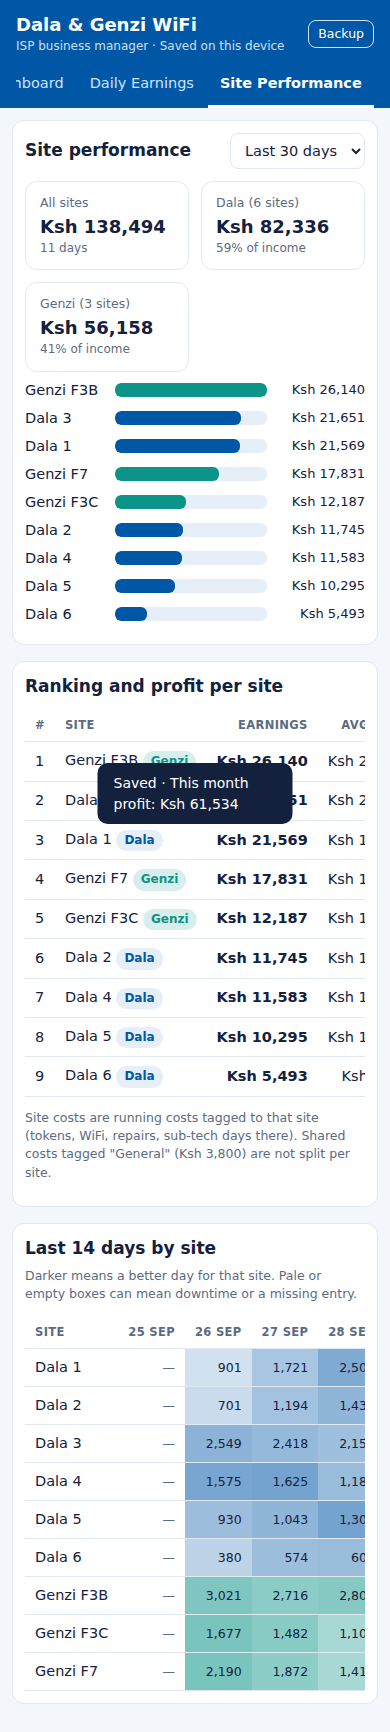
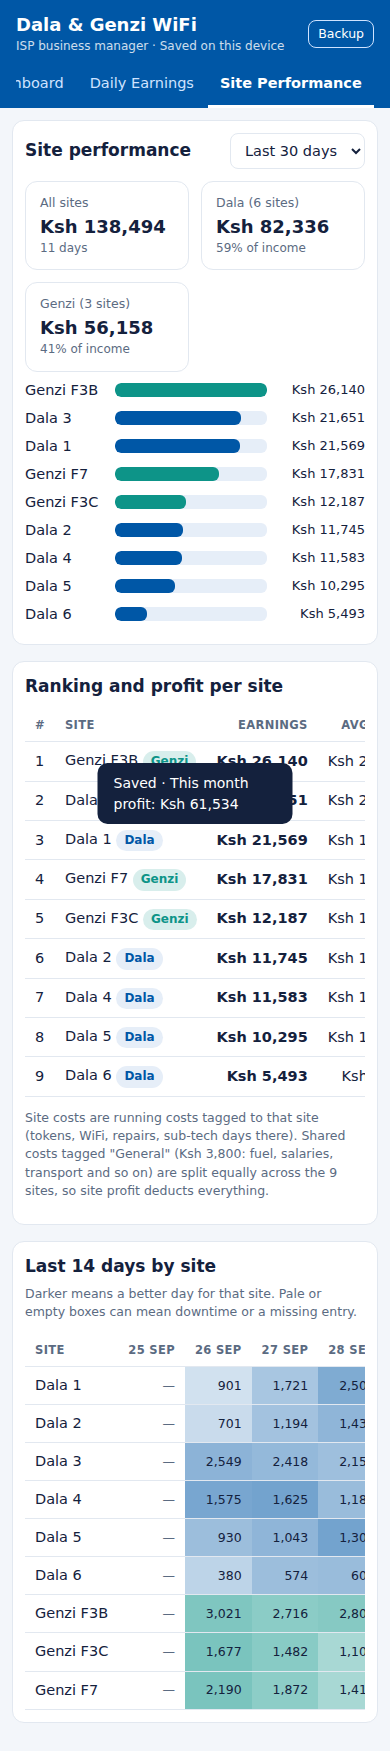
Deduct token and WiFi payments typed into site details; split shared costs per site
Claude-Session: https://claude.ai/code/session_01RXhoZSw358zXZpzYewJXMa

diff --git a/index.html b/index.html
@@ -277,6 +277,7 @@ function applyRemote(){
   written={};all.forEach(([p,d])=>written[p]=JSON.stringify(d.data()));
   S=migrate(fromDocs(lastSnaps.state,lastSnaps.earn));
   try{localStorage.setItem(KEY,JSON.stringify(S));}catch(e){}
+  if(reconcileBills())setTimeout(save,0);
   const a=document.activeElement;
   if(a&&a.closest&&a.closest('main')&&/INPUT|TEXTAREA|SELECT/.test(a.tagName)){needApply=true;return;}
   render();
@@ -677,7 +678,7 @@ P.perf=()=>{
   const [f,t]=rangeOf(UI.perfRange),e=earnIn(f,t),all=UI.perfRange==='all';
   const len=diffDays(f,t)+1,pe=all?null:earnIn(addDays(f,-len),addDays(f,-1));
   const c=costsIn(f,t),sc={};S.sites.forEach(s=>sc[s.id]=0);c.forEach(x=>{if(sc[x.site]!==undefined)sc[x.site]+=x.amount;});
-  const general=sum(c.filter(x=>!sc.hasOwnProperty(x.site)),x=>x.amount);
+  const general=sum(c.filter(x=>!sc.hasOwnProperty(x.site)),x=>x.amount),shareGen=general/(S.sites.length||1);
   const list=S.sites.map(s=>({s,b:e.bySite[s.id],p:pe?pe.bySite[s.id].total:null})).sort((a,b)=>b.b.total-a.b.total);
   const grp=g=>sum(S.sites.filter(s=>s.group===g),s=>e.bySite[s.id].total);
   // heat table: last 14 days
@@ -693,12 +694,12 @@ P.perf=()=>{
     ${hbars(list.map(x=>({label:x.s.name,v:x.b.total,cls:x.s.group==='Genzi'?'g':''})))}
   </div>
   <div class="card"><h2 style="margin-bottom:10px">Ranking and profit per site</h2>
-    <div class="tbl-wrap"><table><thead><tr><th>#</th><th>Site</th><th class="n">Earnings</th><th class="n">Avg/day</th><th class="n">Best day</th><th class="n">Worst day</th><th class="n">Share</th><th class="n">vs previous</th><th class="n">Site costs</th><th class="n">Site profit</th></tr></thead><tbody>
+    <div class="tbl-wrap"><table><thead><tr><th>#</th><th>Site</th><th class="n">Earnings</th><th class="n">Avg/day</th><th class="n">Best day</th><th class="n">Worst day</th><th class="n">Share</th><th class="n">vs previous</th><th class="n">Site costs</th><th class="n">Shared costs</th><th class="n">Site profit</th></tr></thead><tbody>
     ${list.map((x,i)=>`<tr><td>${i+1}</td><td>${esc(x.s.name)} ${groupBadge(x.s)}</td><td class="n"><b>${fmt(x.b.total)}</b></td><td class="n">${fmt(x.b.days?x.b.total/x.b.days:0)}</td>
       <td class="n">${x.b.best?fmt(x.b.best.v)+' <span class="muted small">'+fmtDs(x.b.best.d)+'</span>':'—'}</td><td class="n">${x.b.worst?fmt(x.b.worst.v)+' <span class="muted small">'+fmtDs(x.b.worst.d)+'</span>':'—'}</td>
-      <td class="n">${e.total?(x.b.total/e.total*100).toFixed(1)+'%':'—'}</td><td class="n">${x.p?trend(pct(x.b.total,x.p)):'—'}</td><td class="n">${fmt(sc[x.s.id])}</td><td class="n">${pnl(x.b.total-sc[x.s.id])}</td></tr>`).join('')}
+      <td class="n">${e.total?(x.b.total/e.total*100).toFixed(1)+'%':'—'}</td><td class="n">${x.p?trend(pct(x.b.total,x.p)):'—'}</td><td class="n">${fmt(sc[x.s.id])}</td><td class="n">${fmt(shareGen)}</td><td class="n">${pnl(x.b.total-sc[x.s.id]-shareGen)}</td></tr>`).join('')}
     </tbody></table></div>
-    <p class="small muted">Site costs are running costs tagged to that site (tokens, WiFi, repairs, sub-tech days there). Shared costs tagged "General" (${fmt(general)}) are not split per site.</p>
+    <p class="small muted">Site costs are running costs tagged to that site (tokens, WiFi, repairs, sub-tech days there). Shared costs tagged "General" (${fmt(general)}: fuel, salaries, transport and so on) are split equally across the ${S.sites.length} sites, so site profit deducts everything.</p>
   </div>
   <div class="card"><h2 style="margin-bottom:6px">Last 14 days by site</h2><p class="small muted" style="margin-top:0">Darker means a better day for that site. Pale or empty boxes can mean downtime or a missing entry.</p>
     <div class="tbl-wrap heat"><table><thead><tr><th>Site</th>${hd.map(d=>`<th class="n">${fmtDs(d)}</th>`).join('')}</tr></thead><tbody>
@@ -708,7 +709,7 @@ P.perf=()=>{
 const trend=p=>p===null||!isFinite(p)?'—':`<span class="${p<0?'neg':'pos'}">${p<0?'▼':'▲'} ${Math.abs(p).toFixed(0)}%</span>`;
 
 P.bills=()=>{
-  const [mf,mt]=rangeOf('month'),me=earnIn(mf,mt),msc={};costsIn(mf,mt).forEach(x=>msc[x.site]=(msc[x.site]||0)+x.amount);
+  const [mf,mt]=rangeOf('month'),me=earnIn(mf,mt),msc={};costsIn(mf,mt).forEach(x=>msc[x.site]=(msc[x.site]||0)+x.amount);const mGen=sum(Object.keys(msc).filter(k=>!S.sites.some(x=>x.id===k)),k=>msc[k])/(S.sites.length||1);
   const hist=S.expenses.filter(x=>x.category==='Electricity tokens'||x.category==='Wifi subscription').sort((a,b)=>b.date.localeCompare(a.date)).slice(0,40);
   return `
   <div class="note">Keep each site's token meter number and WiFi account here. Use <b>Pay token</b> or <b>Pay WiFi</b> when you pay: it updates the last paid date and adds the cost to Running Costs automatically.</div>
@@ -719,7 +720,7 @@ P.bills=()=>{
       <div class="sec">WiFi subscription</div>
       <dl><dt>Provider</dt><dd>${esc(s.wifiProvider||'—')}</dd><dt>Account no.</dt><dd>${esc(s.wifiAccount||'—')}</dd><dt>Last paid</dt><dd>${fmtD(s.wifiLastPaid)}</dd><dt>Next due</dt><dd>${fmtD(wifiDue(s))}</dd><dt>Status</dt><dd><span class="badge ${w.cls}">${w.txt}</span></dd></dl>
       <div class="sec">This month at this site</div>
-      <dl><dt>Earnings</dt><dd>${fmt(me.bySite[s.id].total)}</dd><dt>Costs</dt><dd>${fmt(msc[s.id]||0)}</dd><dt>${me.bySite[s.id].total-(msc[s.id]||0)<0?'Loss':'Profit'}</dt><dd><b>${pnl(me.bySite[s.id].total-(msc[s.id]||0))}</b></dd><dt>Monthly bills</dt><dd>${fmt(num(s.wifiAmount)*30/(num(s.wifiCycleDays)||30)+num(s.tokenLastAmount))}</dd></dl>
+      <dl><dt>Earnings</dt><dd>${fmt(me.bySite[s.id].total)}</dd><dt>Site costs</dt><dd>${fmt(msc[s.id]||0)}</dd><dt>Shared costs</dt><dd>${fmt(mGen)}</dd><dt>${me.bySite[s.id].total-(msc[s.id]||0)-mGen<0?'Loss':'Profit'}</dt><dd><b>${pnl(me.bySite[s.id].total-(msc[s.id]||0)-mGen)}</b></dd><dt>Monthly bills</dt><dd>${fmt(num(s.wifiAmount)*30/(num(s.wifiCycleDays)||30)+num(s.tokenLastAmount))}</dd></dl>
       ${s.notes?`<p class="small muted">${esc(s.notes)}</p>`:''}
       <div class="row"><button class="btn sm primary" data-act="payToken" data-id="${s.id}">Pay token</button><button class="btn sm primary" data-act="payWifi" data-id="${s.id}">Pay WiFi</button><button class="btn sm" data-act="editSite" data-id="${s.id}">Edit details</button></div>
     </div>`;}).join('')}</div>
@@ -1072,6 +1073,22 @@ const payerOpts=()=>[...S.settings.partners,BIZ];
 const fPaid=(label='Paid by')=>({k:'paidBy',label,type:'select',options:payerOpts(),def:S.settings.lastPayer||S.settings.partners[0]});
 const payerTag=p=>p?`<span class="badge ${p===BIZ?'b-info':'b-dala'}">${esc(p===BIZ?'Business':p)}</span>`:'<span class="muted small">—</span>';
 function expFields(cat){return [fDate(),{k:'category',label:'Category',type:'select',options:EXP_CATS,def:cat||EXP_CATS[0]},{k:'site',label:'Site',type:'select',options:siteOpts(),def:'general'},{k:'amount',label:'Amount (Ksh)',type:'number',req:true},fPaid(),{k:'desc',label:'Description',type:'text'}];}
+// A token or WiFi payment typed straight into a site's details (Last paid + amount) must still count as a cost.
+// Deterministic ids, so two phones adding the same one never double it.
+function reconcileBills(){
+  let ch=false;
+  for(const s of S.sites){
+    for(const [dk,ak,cat,tag] of [['tokenLastPaid','tokenLastAmount','Electricity tokens','tok'],['wifiLastPaid','wifiAmount','Wifi subscription','wifi']]){
+      const d=s[dk],a=num(s[ak]),mk=tag+'Counted';
+      if(!d||!a||s[mk]===d)continue;
+      if(!S.expenses.some(e=>e.site===s.id&&e.category===cat&&e.date===d)){
+        S.expenses.push({id:`auto-${tag}-${s.id}-${d}`,date:d,category:cat,site:s.id,amount:a,desc:(tag==='tok'?(s.tokenMeter?'Meter '+s.tokenMeter:'Token'):(s.wifiAccount?'Acc '+s.wifiAccount:'WiFi'))+' (from site details)',paidBy:BIZ});
+      }
+      s[mk]=d;ch=true;
+    }
+  }
+  return ch;
+}
 function addExpense(o){S.expenses.push({id:uid(),date:o.date,category:o.category,site:o.site,amount:num(o.amount),desc:o.desc||'',paidBy:o.paidBy||''});}
 function addToStore(name,qty,unit,unitCost){
   let it=S.store.find(m=>m.name.toLowerCase()===name.toLowerCase());
@@ -1117,12 +1134,12 @@ const ACT={
   earnShift(n){UI.earnDate=addDays(UI.earnDate||today(),Number(n));UI.earnMonth=UI.earnDate.slice(0,7);render();},
   editSite(id){const s=site(id);openForm(`${s.name} details`,[
     {k:'tokenMeter',label:'Token meter number'},{k:'powerName',label:'Power house owner (name)'},{k:'powerPhone',label:'Power house owner phone',type:'tel'},{k:'tokenLastPaid',label:'Token last paid',type:'date'},{k:'tokenLastAmount',label:'Last token amount (Ksh)',type:'number'},
-    {k:'wifiProvider',label:'WiFi / internet provider'},{k:'wifiAccount',label:'WiFi account number'},{k:'wifiLastPaid',label:'WiFi subscription last paid',type:'date'},{k:'wifiAmount',label:'WiFi subscription amount (Ksh)',type:'number'},{k:'wifiCycleDays',label:'Subscription lasts (days)',type:'number',hint:'Usually 30'},{k:'notes',label:'Notes',type:'textarea'}],s,o=>{Object.assign(s,o);toast('Saved');});},
+    {k:'wifiProvider',label:'WiFi / internet provider'},{k:'wifiAccount',label:'WiFi account number'},{k:'wifiLastPaid',label:'WiFi subscription last paid',type:'date'},{k:'wifiAmount',label:'WiFi subscription amount (Ksh)',type:'number'},{k:'wifiCycleDays',label:'Subscription lasts (days)',type:'number',hint:'Usually 30'},{k:'notes',label:'Notes',type:'textarea'}],s,o=>{Object.assign(s,o);reconcileBills();toast('Saved');});},
   payToken(id){const s=site(id);openForm(`Pay token: ${s.name}`,[fDate(),{k:'amount',label:'Amount (Ksh)',type:'number',req:true,def:s.tokenLastAmount||''},fPaid(),{k:'desc',label:'Note',def:s.tokenMeter?'Meter '+s.tokenMeter:''}],{},o=>{
-    if(!s.tokenLastPaid||o.date>=s.tokenLastPaid){s.tokenLastPaid=o.date;s.tokenLastAmount=o.amount;}
+    if(!s.tokenLastPaid||o.date>=s.tokenLastPaid){s.tokenLastPaid=o.date;s.tokenLastAmount=o.amount;s.tokCounted=o.date;}
     addExpense({date:o.date,category:'Electricity tokens',site:id,amount:o.amount,desc:o.desc,paidBy:o.paidBy});toast('Token payment saved and counted in costs');});},
   payWifi(id){const s=site(id);openForm(`Pay WiFi: ${s.name}`,[fDate(),{k:'amount',label:'Amount (Ksh)',type:'number',req:true,def:s.wifiAmount||''},{k:'cycle',label:'Subscription lasts (days)',type:'number',def:s.wifiCycleDays||30},fPaid(),{k:'desc',label:'Note',def:s.wifiAccount?'Acc '+s.wifiAccount:''}],{},o=>{
-    if(!s.wifiLastPaid||o.date>=s.wifiLastPaid){s.wifiLastPaid=o.date;s.wifiAmount=o.amount;s.wifiCycleDays=o.cycle||30;}
+    if(!s.wifiLastPaid||o.date>=s.wifiLastPaid){s.wifiLastPaid=o.date;s.wifiAmount=o.amount;s.wifiCycleDays=o.cycle||30;s.wifiCounted=o.date;}
     addExpense({date:o.date,category:'Wifi subscription',site:id,amount:o.amount,desc:o.desc,paidBy:o.paidBy});toast('WiFi payment saved and counted in costs');});},
   addStore(){openForm('Add item to store',[...storeFields,fDate(),fPaid(),{k:'rec',label:'Count the cost (qty × cost per unit) in Running Costs (Materials)',type:'checkbox',def:true}],{},o=>{
     const {date,paidBy,rec,...item}=o;S.store.push({id:uid(),...item});S.matLog.push({id:uid(),date,name:o.name,qty:o.qty,type:'In',site:'',note:'Added to store'});
@@ -1261,6 +1278,7 @@ function renderHead(){
 }
 function render(){renderHead();$('#main').innerHTML=P[UI.page]();}
 window.addEventListener('popstate',()=>{const p=location.hash.slice(1)||'dash';if(PAGES.some(x=>x[0]===p)){UI.page=p;render();}});
+if(reconcileBills()){try{localStorage.setItem(KEY,JSON.stringify(S));}catch(e){}}
 render();
 connectOnline();
 $('#dlg').addEventListener('close',()=>{if(needApply)setTimeout(applyRemote,0);});
